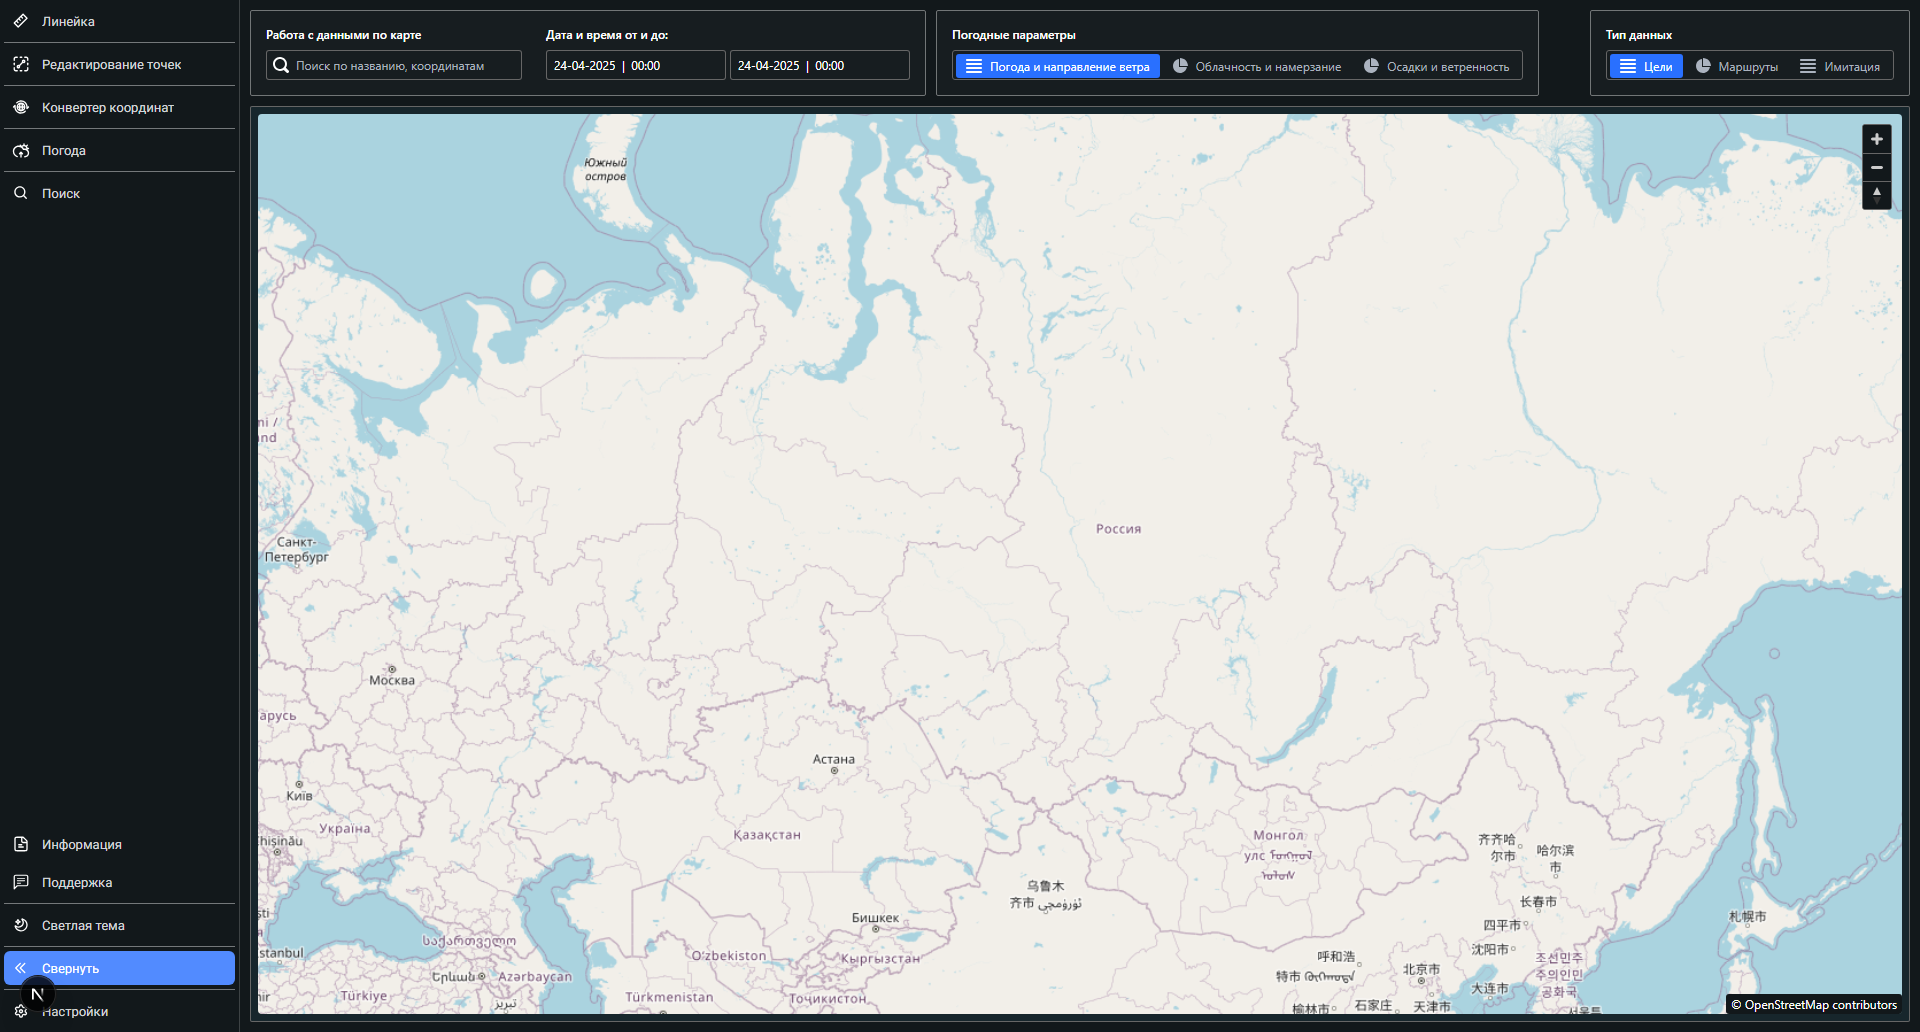
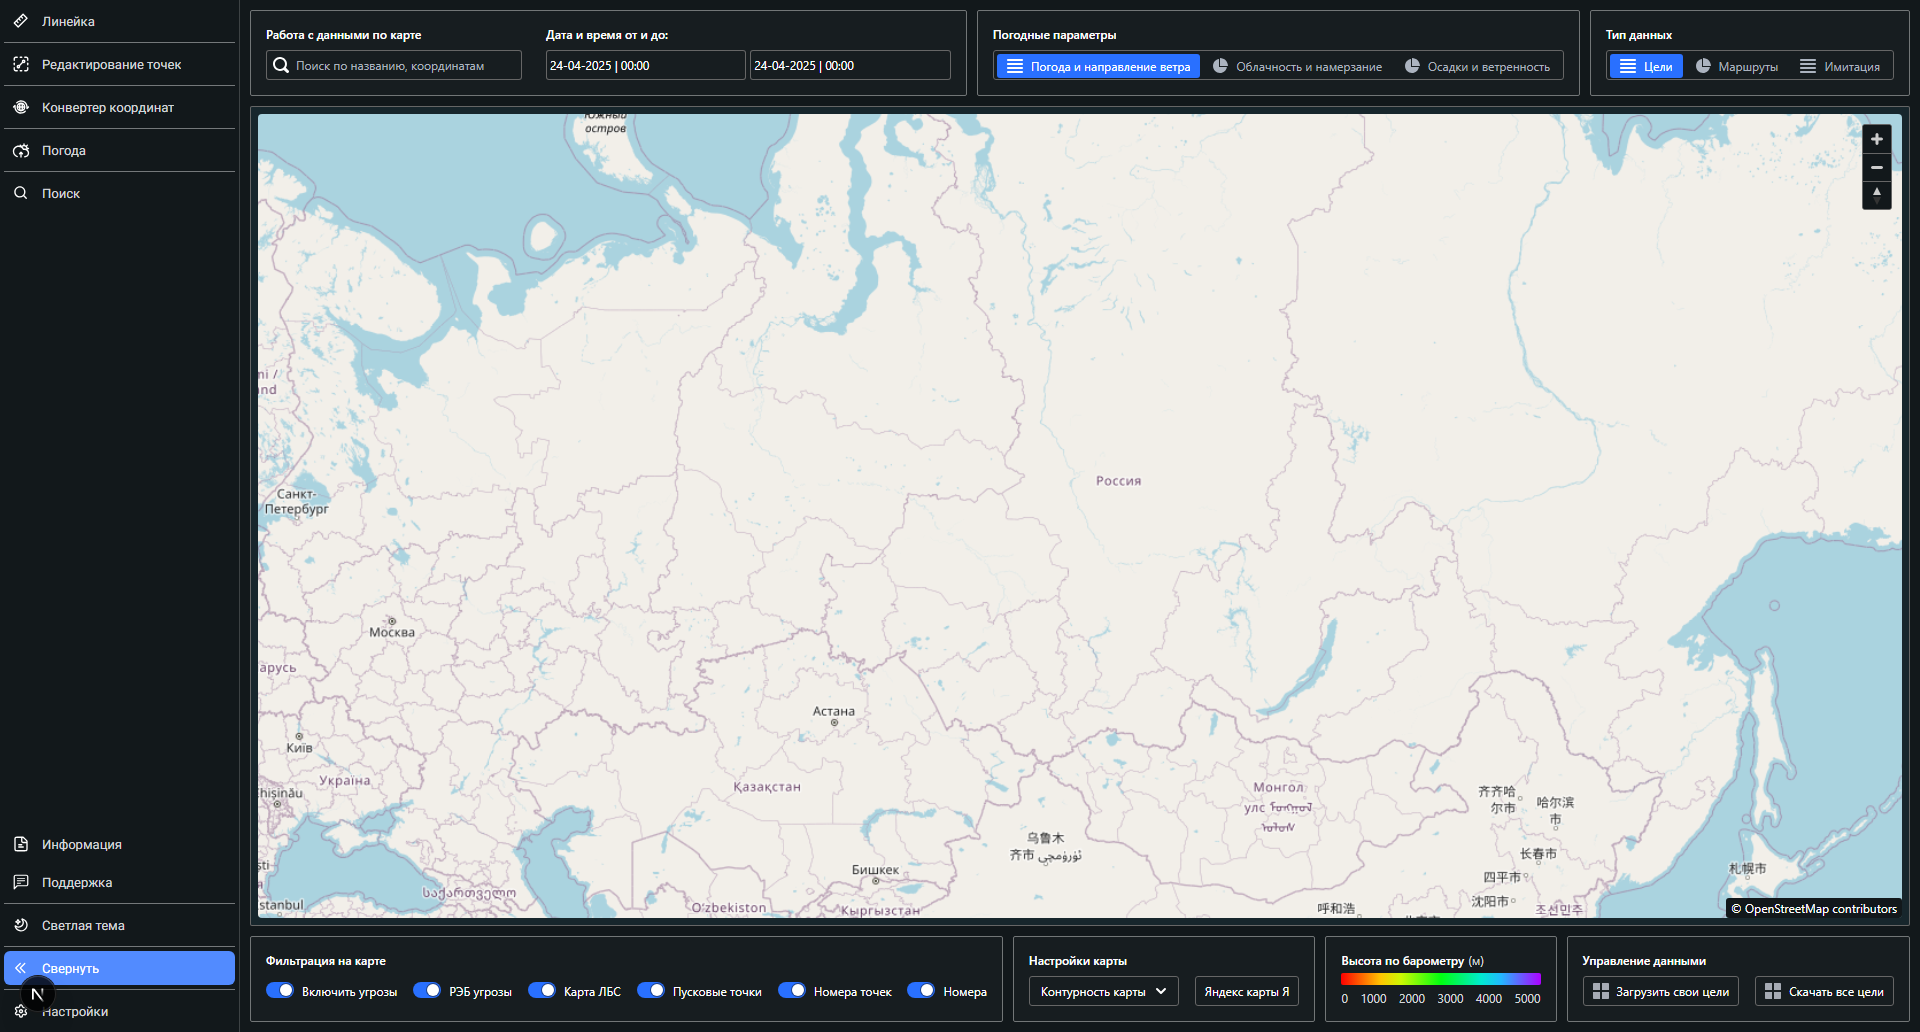
feat(panel): routes bottom panel (I5 core) - reference structure + e2e
RoutesPanel lands in the TabBottomPanel dispatcher with the exact copy from
the full-size reference crops: six map-filter switches (folding is
space-driven in the reference, so a second fold tier runs on an @user
query over the panel width - 1280+collapsed keeps three switches,
1280+expanded keeps two and shortens "Яндекс карты Я" to its glyph),
"Настройки карты" (shared dense SelectControl + chip), the barometric
GradientLegend with a new inlineUnit variant (the map cloud legend keeps its
split header), and the data actions with band-driven short labels. All
content reuses the frozen primitives; no new card abstractions.

The routes 1920 baseline is re-captured in this same commit (the panel is
now part of the shell) and check:visual passes at 0 mismatched pixels. New
workspace-shell e2e: the bar panel is visible with data-tab=bar, 96px tall,
sits right under the map stage; tabs without approved content (tmi) render
no panel - this also closes the I3 review minors (data-tab assertion and
the negative panel check).

Pixel polish against the 8 designer crops continues within I5: current
design:check mismatch is ~14% vs the 6.5% budget, dominated by the filter
card width (our switch gaps are wider than the reference) and text
antialiasing; the loop state is recorded in the handoff journal.

diff --git a/src/components/TabBottomPanel/TabBottomPanel.tsx b/src/components/TabBottomPanel/TabBottomPanel.tsx
@@ -7,6 +7,7 @@ import {
   ControlCard,
   ControlField,
   MapLayerDropdown,
+  SelectField,
   SwitchToggle,
 } from '@/components/TabTopControls/controls';
 import { cx } from '@/lib/cx';
@@ -48,6 +49,8 @@ export function TabBottomPanel({ activeTab }: { activeTab: HeaderTabId }) {
   switch (activeTab) {
     case 'map':
       return <MapPanel />;
+    case 'bar':
+      return <RoutesPanel />;
     default:
       return null;
   }
@@ -76,18 +79,22 @@ function PanelShell({
 }
 
 // Rainbow gradient legend (the flexible rubber middle block of a panel).
+// `inlineUnit` keeps the unit right next to the title (the bar/tmi barometric
+// legend); the map cloud legend keeps its split title…unit header.
 function GradientLegend({
   ticks,
   title,
   unit,
+  inlineUnit,
 }: {
   ticks: readonly string[];
   title: string;
   unit: string;
+  inlineUnit?: boolean;
 }) {
   return (
     <div className={styles.legend} data-testid="tab-bottom-panel-legend">
-      <div className={styles.legendHeader}>
+      <div className={cx(styles.legendHeader, inlineUnit && styles.legendHeaderInline)}>
         <span className={styles.legendTitle}>{title}</span>
         <span className={styles.legendUnit}>{unit}</span>
       </div>
@@ -98,6 +105,84 @@ function GradientLegend({
         ))}
       </div>
     </div>
+  );
+}
+
+// "Фильтрация на карте" toggles of the routes panel (1920 reference). The
+// folding is space-driven in the reference: six switches at >= 1920, three at
+// 1280 with the rail collapsed, two at 1280 with the rail expanded — the first
+// tier folds with the compact band (filterExtra), the second by panel width
+// (filterTier2 container query).
+const BAR_FILTER_TOGGLES = [
+  'Включить угрозы',
+  'РЭБ угрозы',
+  'Карта ЛБС',
+  'Пусковые точки',
+  'Номера точек',
+  'Номера',
+] as const;
+
+// "Высота по барометру" tick labels (metres) — six ticks in the reference.
+const BAR_LEGEND_TICKS = ['0', '1000', '2000', '3000', '4000', '5000'] as const;
+
+function RoutesPanel() {
+  return (
+    <PanelShell ariaLabel="Нижняя панель маршрутов" tab="bar">
+      <ControlCard ariaLabel="Фильтрация на карте">
+        <ControlField title="Фильтрация на карте">
+          {BAR_FILTER_TOGGLES.map((label, index) => (
+            <span
+              key={label}
+              className={cx(
+                index >= COMPACT_VISIBLE_FILTERS && styles.filterExtra,
+                index >= 2 && styles.filterTier2,
+              )}
+            >
+              <SwitchToggle defaultChecked label={label} />
+            </span>
+          ))}
+          <span className={styles.filterOverflow}>
+            <MapLayerDropdown ariaLabel="Ещё фильтры" />
+          </span>
+        </ControlField>
+      </ControlCard>
+
+      <ControlCard ariaLabel="Настройки карты">
+        <ControlField title="Настройки карты">
+          <SelectField
+            ariaLabel="Контурность карты"
+            options={['Контурность карты']}
+            value="Контурность карты"
+          />
+          <ChipButton>
+            <span className={styles.yandexFull}>Яндекс карты Я</span>
+            <span className={styles.yandexShort}>Я</span>
+          </ChipButton>
+        </ControlField>
+      </ControlCard>
+
+      <ControlCard ariaLabel="Высота по барометру" flexible>
+        <GradientLegend
+          inlineUnit
+          ticks={BAR_LEGEND_TICKS}
+          title="Высота по барометру"
+          unit="(м)"
+        />
+      </ControlCard>
+
+      <ControlCard ariaLabel="Управление данными">
+        <ControlField title="Управление данными">
+          <ChipButton leadingIcon="grid-view" leadingIconClassName={styles.actionIcon}>
+            <span className={styles.fullLabel}>Загрузить свои цели</span>
+            <span className={styles.shortLabel}>Загрузить</span>
+          </ChipButton>
+          <ChipButton leadingIcon="grid-view" leadingIconClassName={styles.actionIcon}>
+            <span className={styles.fullLabel}>Скачать все цели</span>
+            <span className={styles.shortLabel}>Скачать цели</span>
+          </ChipButton>
+        </ControlField>
+      </ControlCard>
+    </PanelShell>
   );
 }
 

diff --git a/src/components/TabBottomPanel/TabBottomPanel.module.scss b/src/components/TabBottomPanel/TabBottomPanel.module.scss
@@ -15,6 +15,11 @@
   min-width: 0;
   padding: 0 t.$workspace-bottom-panel-padding t.$workspace-bottom-panel-padding;
   background: t.$color-workspace-bg;
+
+  // Container for the space-driven second fold tier (the reference folds by
+  // available panel width, not only by the viewport band — e.g. 1280 with the
+  // rail expanded loses one more switch than 1280 with it collapsed).
+  container-type: inline-size;
 }
 
 .panel *,
@@ -38,6 +43,12 @@
   align-items: baseline;
   justify-content: space-between;
   gap: t.$space-2;
+}
+
+// Barometric legends keep the unit right after the title (bar/tmi reference).
+.legendHeaderInline {
+  justify-content: flex-start;
+  gap: t.$space-1;
 }
 
 .legendTitle {
@@ -102,6 +113,27 @@
   }
 
   .shortLabel {
+    display: inline;
+  }
+}
+
+// ── Second fold tier, driven by the panel width itself (1080px threshold):
+// the narrowest reference (1280 + expanded rail = 1040px panel) drops one more
+// filter switch and shortens "Яндекс карты Я" to its glyph. ──────────────────
+.yandexShort {
+  display: none;
+}
+
+@container (max-width: 67.5rem) {
+  .filterTier2 {
+    display: none;
+  }
+
+  .yandexFull {
+    display: none;
+  }
+
+  .yandexShort {
     display: inline;
   }
 }

diff --git a/tests/e2e/workspace-shell.spec.ts b/tests/e2e/workspace-shell.spec.ts
@@ -905,6 +905,30 @@ test.describe('PraiOS workspace shell', () => {
     }
   });
 
+  test('shows the routes bottom panel and keeps tabs without content panel-free', async ({
+    page,
+  }) => {
+    await openWorkspace(page);
+    await page.getByRole('banner').locator('#praios-header-tab-bar').click();
+    await page.waitForTimeout(WORKSPACE_MOTION_DURATION_MS + 100);
+
+    const panel = page.getByTestId('tab-bottom-panel');
+    await expect(panel).toBeVisible();
+    await expect(panel).toHaveAttribute('data-tab', 'bar');
+
+    // Same frozen footer geometry as the map panel: fixed height, sitting
+    // directly under the map stage.
+    const panelBox = await requireBox(panel);
+    expect(Math.round(panelBox.height)).toBe(96);
+    const map = await requireBox(page.getByTestId('workspace-map'));
+    expect(Math.round(panelBox.y)).toBe(Math.round(map.y + map.height));
+
+    // Tabs whose panel content has not landed yet render no panel at all.
+    await page.getByRole('banner').locator('#praios-header-tab-tmi').click();
+    await page.waitForTimeout(WORKSPACE_MOTION_DURATION_MS + 100);
+    await expect(page.getByTestId('tab-bottom-panel')).toHaveCount(0);
+  });
+
   test('removes meaningful rail motion for reduced-motion users', async ({ page }) => {
     await page.emulateMedia({ reducedMotion: 'reduce' });
 